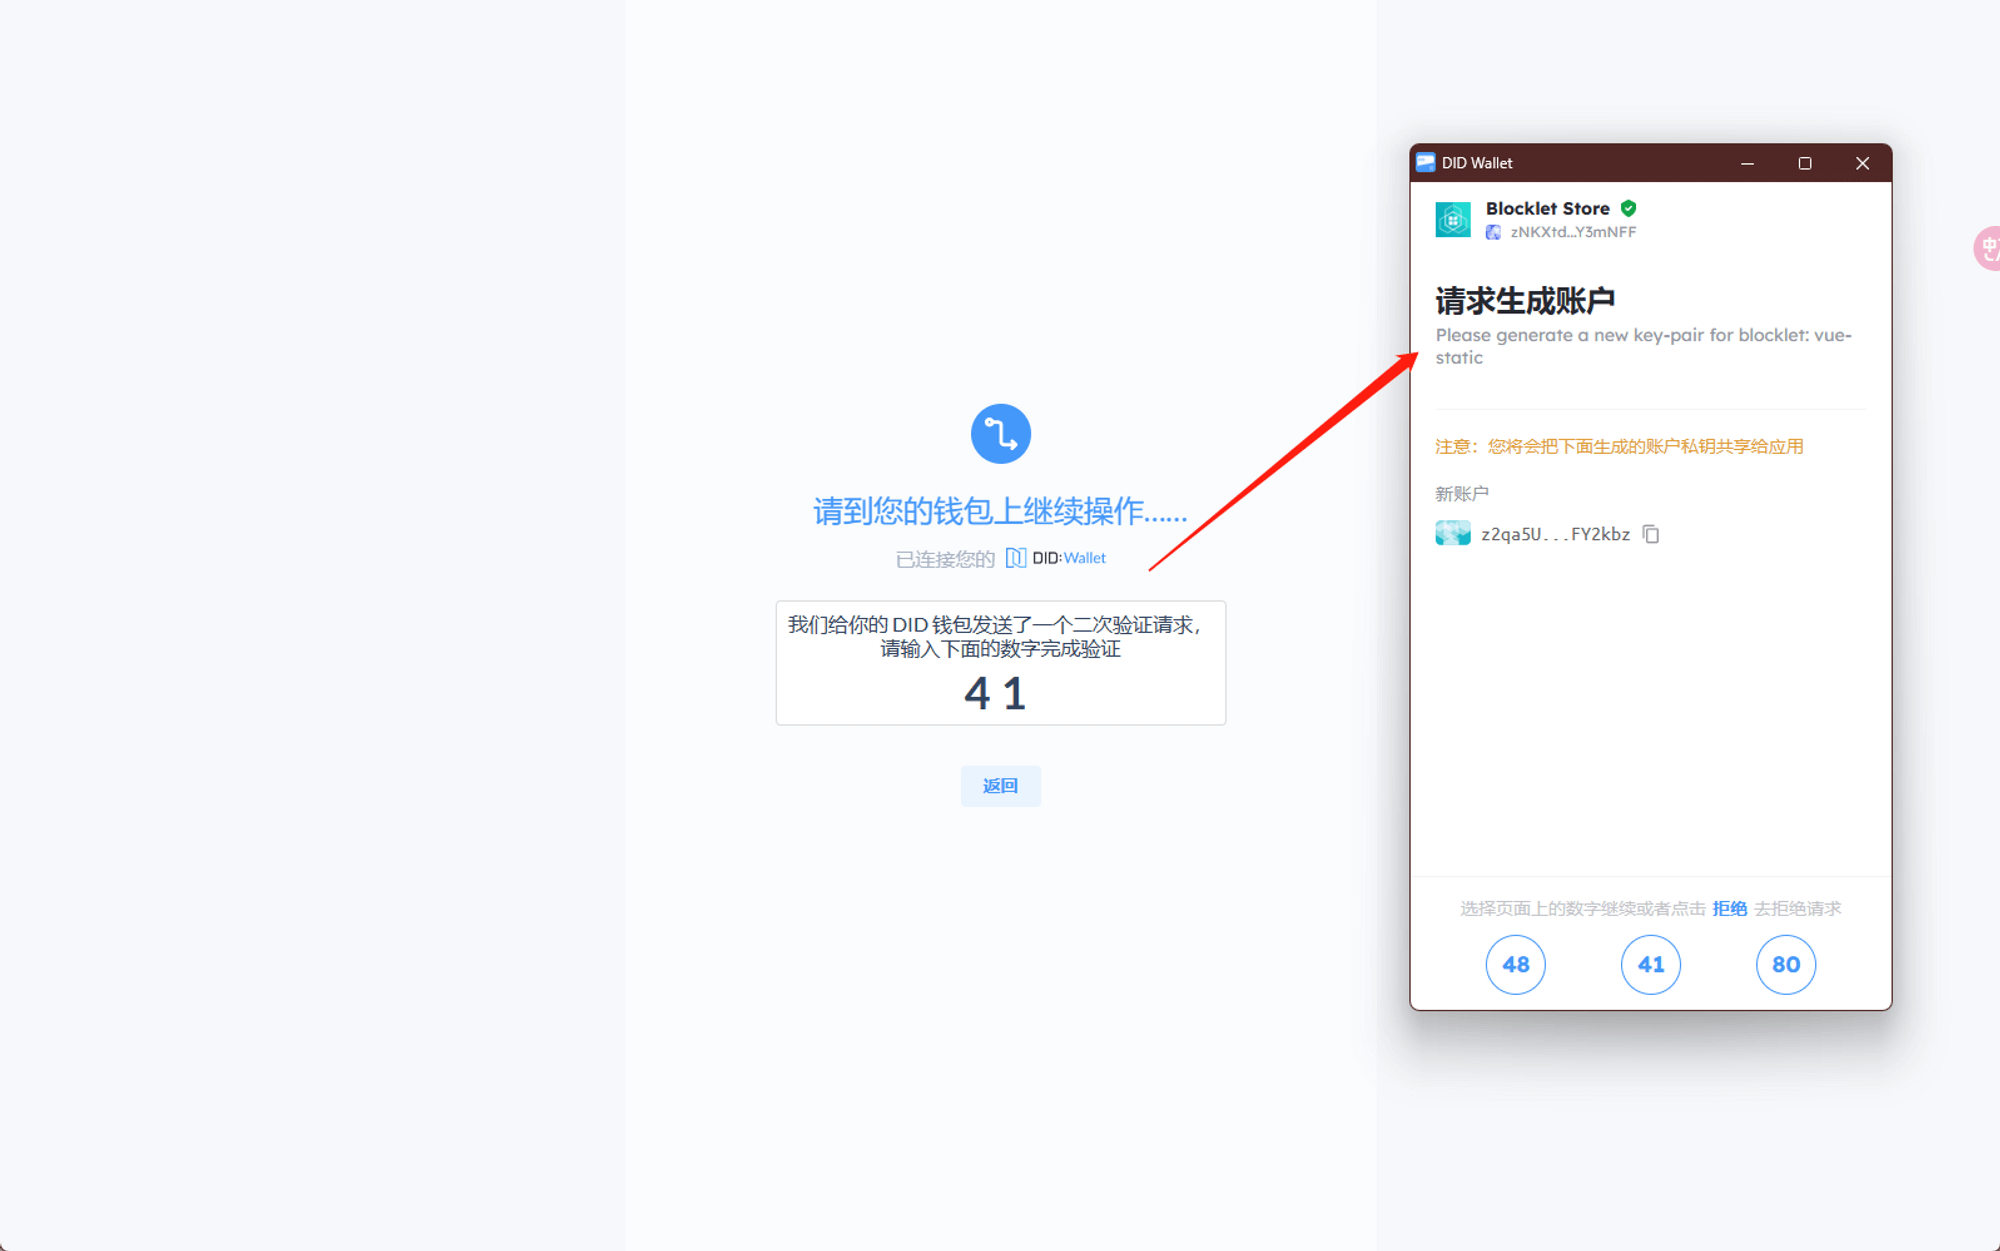
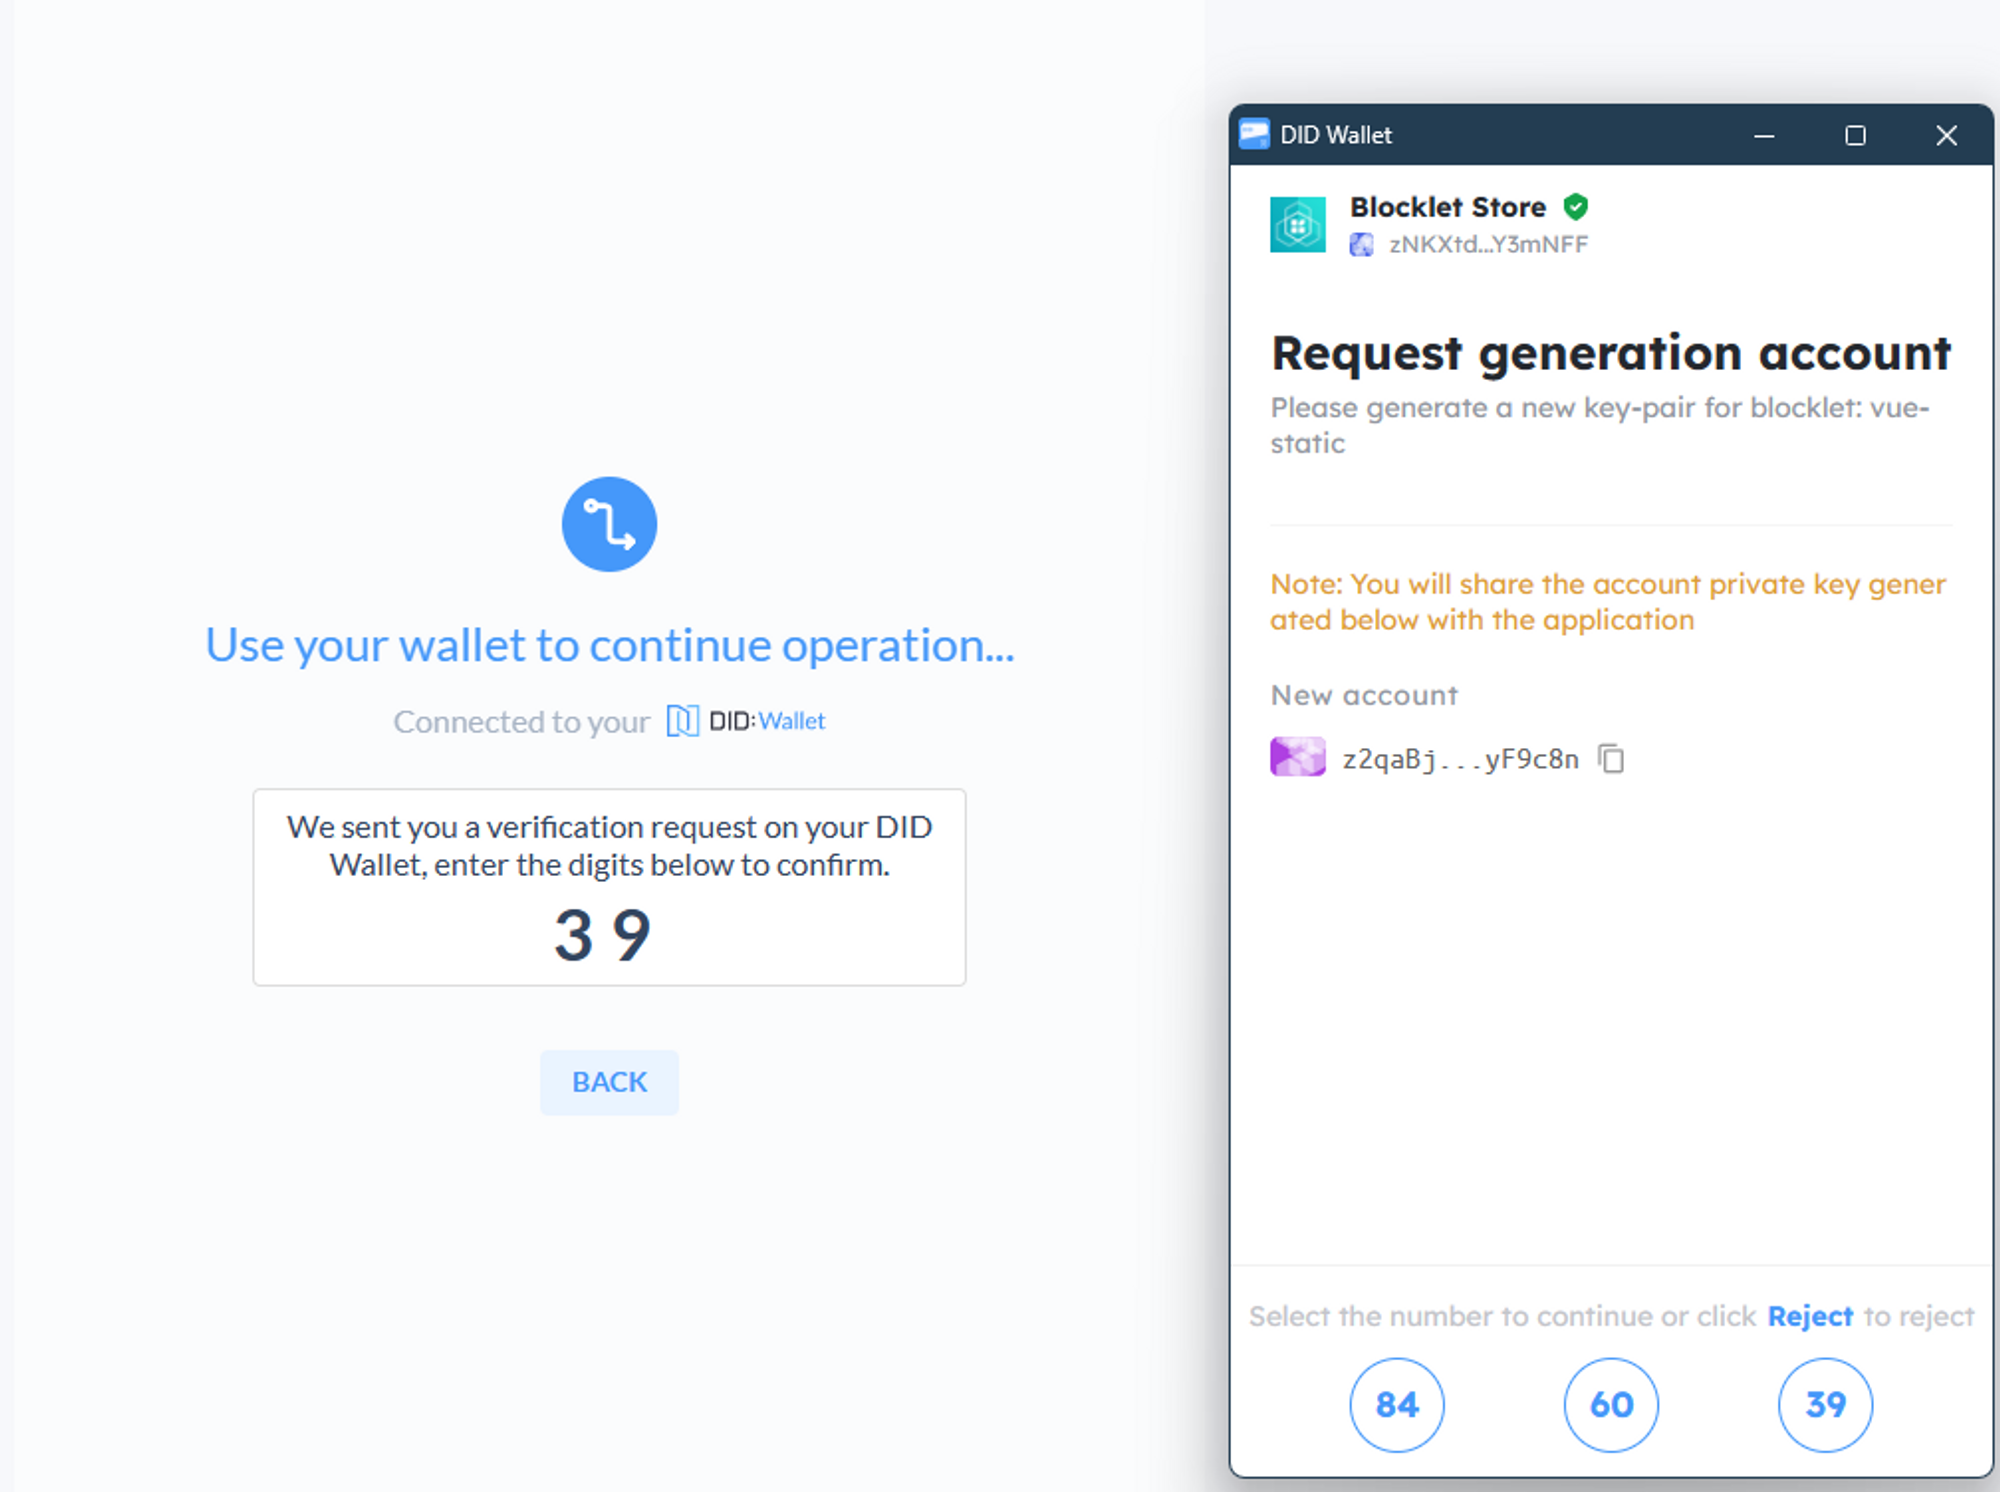
docs: polish image

diff --git a/CHANGELOG.md b/CHANGELOG.md
@@ -1,3 +1,7 @@
+## 0.1.129 (April 11, 2023)
+
+- docs: polish image
+
 ## 0.1.128 (April 11, 2023)
 
 - docs: polish image
